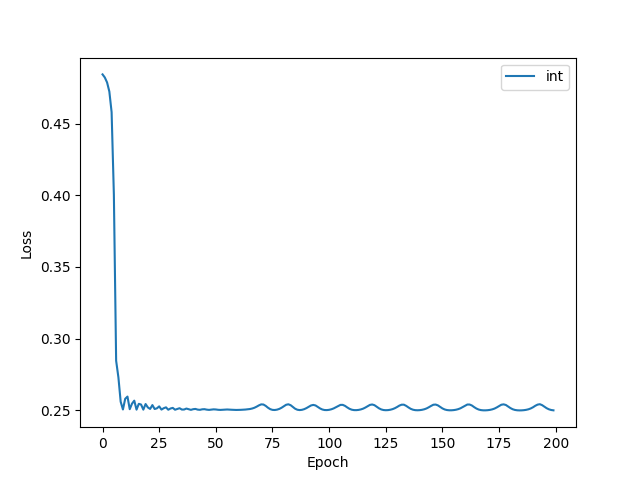
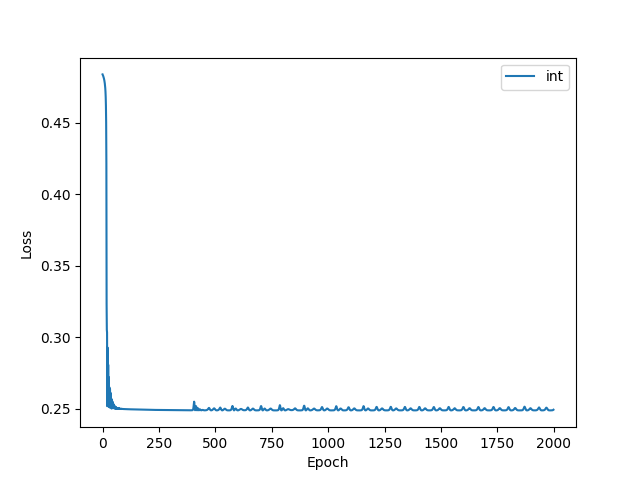
update code

diff --git a/chapter3_obs/q1.py b/chapter3_obs/q1.py
@@ -1,6 +1,7 @@
 import torch
 from torch import nn
 import matplotlib.pyplot as plt
+import numpy as np
 
 
 # 定义模型
@@ -10,9 +11,9 @@ class NeuralNetwork(nn.Module):
         self.linear_relu_stack = nn.Sequential(
             nn.Linear(input_size, 16),
             nn.ReLU(),
-            nn.Linear(16, 32),
+            nn.Linear(16, 16),
             nn.ReLU(),
-            nn.Linear(32, output_size),
+            nn.Linear(16, output_size),
             nn.Sigmoid()
         )
 
@@ -28,7 +29,7 @@ def train(name, input_size, output_size, x_train, y_train, x_test, y_test, epoch
     optimizer = torch.optim.Adam(model.parameters(), lr=1e-3)
     loss_history = []
     for epoch_num in range(epoch):
-        model.train()
+        # model.train()
         pred = model(x_train)
         loss = loss_fn(pred, y_train)
         loss_history.append(loss.item())
@@ -42,15 +43,13 @@ def train(name, input_size, output_size, x_train, y_train, x_test, y_test, epoch
 
     draw(loss_history, name)
 
-    model.eval()
+    # model.eval()
     with torch.no_grad():
         pred = model(x_test)
         test_loss = loss_fn(pred, y_test).item()
-        # correct = (pred.argmax(1) == y_test).type(torch.float).sum().item()
-        accuracy = (pred.round() == y_test).float().mean()
+        accuracy = (pred.round() == y_test).sum() / len(y_test)
+        # accuracy = torch.count_nonzero(pred.argmax(dim=-1) == y_test.argmax(dim=-1)).item() / len(y_test)
     print(f"Test \n Accuracy: {(100 * accuracy):>0.1f}%, Avg loss: {test_loss:>8f} \n")
-
-
 
 
 # delimiter
@@ -72,7 +71,7 @@ def get_binary_encoding(bit_num: int):
 
 def binary(x, bits):
     mask = 2 ** torch.arange(bits).to(x.device, x.dtype)
-    return x.unsqueeze(-1).bitwise_and(mask).ne(0).byte()
+    return x.bitwise_and(mask).ne(0).float()
 
 
 def draw(loss_list, name):
@@ -85,21 +84,25 @@ def draw(loss_list, name):
 
 
 if __name__ == "__main__":
-
     bin_encode = get_binary_encoding(10)
     # 训练集
     x_train = torch.randint(0, 999, (3750, 1)).float()
-    x_sin_train = torch.sin(x_train)
-    # x_bin_train = bin_encode(x_train.long(), 10)
+    x_train_sin = torch.sin(x_train)
+    x_train_bin = binary(x_train.long(), 10)
     y_train = x_train % 2
     # 测试集
     x_test = torch.randint(0, 999, (1250, 1)).float()
-    x_test = x_test.float()
-    x_sin_test = torch.sin(x_test)
-    # x_bin_test = binary(x_test.long(), 10)
+    x_test_sin = torch.sin(torch.pi * x_test)
+    x_test_bin = binary(x_test.long(), 10)
     y_test = x_test % 2
 
-    epochs = 200
+    epochs = 2000
+
+    # 方案1 直接输入数字，损失值振荡大，可能是数字分布过于离散导致
     train("int", 1, 1, x_train, y_train, x_test, y_test, epochs)
-    train("sin", 1, 1, x_sin_train, y_train, x_sin_test, y_test, epochs)
+    # 方案2 二进制处理，收敛快，跟计算机的硬件是01二值计算有关
+    train("bin", 10, 1, x_train_bin, y_train, x_test_bin, y_test, epochs)
+    # 方案2 平滑处理，并将范化到-1，1，分布均匀
+    train("sin", 1, 1, x_train_sin, y_train, x_test_sin, y_test, epochs)
+
     print("Done!")

diff --git a/chapter3_obs/chapter3_application_demo.py b/chapter3_obs/chapter3_application_demo.py
@@ -17,6 +17,8 @@ def evogym_carrier():
     # You can refer to the env doc (https://di-engine-docs.readthedocs.io/zh_CN/latest/13_envs/Evogym_zh.html) for more details
     agent = PPOF(env='evogym_carrier', exp_name='./evogym_carrier_demo')
     agent.train(step=int(1e6))
+    # Classic RL interaction loop and save replay video
+    agent.deploy(enable_save_replay=True)
 
 
 def mario():
@@ -24,6 +26,8 @@ def mario():
     # You can refer to the env doc (https://di-engine-docs.readthedocs.io/zh_CN/latest/13_envs/gym_super_mario_bros_zh.html) for more details
     agent = PPOF(env='mario', exp_name='./mario_demo')
     agent.train(step=int(3e6))
+    # Classic RL interaction loop and save replay video
+    agent.deploy(enable_save_replay=True)
 
 
 def di_sheep():
@@ -43,6 +47,8 @@ def di_sheep():
     )
     agent = PPOF(env='di_sheep', exp_name='./di_sheep_demo', model=model)
     agent.train(step=int(1e6))
+    # Classic RL interaction loop and save replay video
+    agent.deploy(enable_save_replay=True)
 
 
 def procgen_bigfish():
@@ -50,12 +56,14 @@ def procgen_bigfish():
     # You can refer to the env doc (https://di-engine-docs.readthedocs.io/zh_CN/latest/13_envs/procgen_zh.html) for more details
     agent = PPOF(env='procgen_bigfish', exp_name='./procgen_bigfish_demo')
     agent.train(step=int(1e7))
+    # Classic RL interaction loop and save replay video
+    agent.deploy(enable_save_replay=True)
 
 
 if __name__ == "__main__":
     # You can select and run your favorite demo
-    # bipedalwalker()
+    bipedalwalker()
     # evogym_carrier()
-    mario()
+    # mario()
     # di_sheep()
     # procgen_bigfish()
